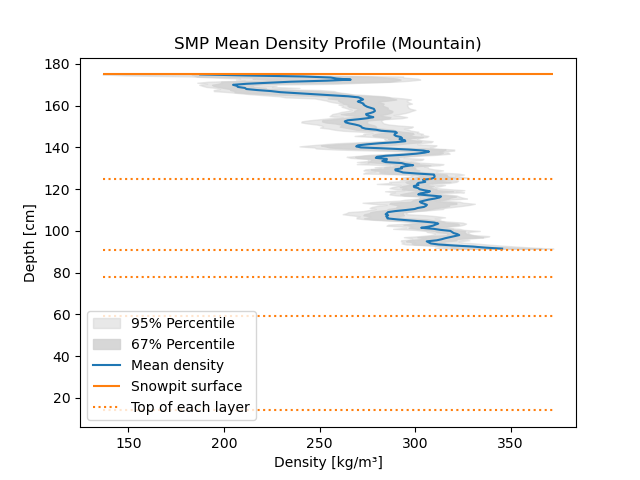
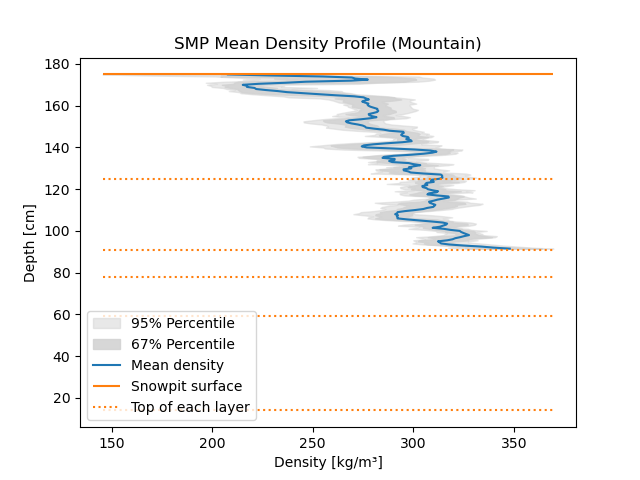
everything in order now

diff --git a/src/main.py b/src/main.py
@@ -1,6 +1,8 @@
 import snowmicropyn
 from snowmicropyn.parameterizations.calonne_richter2020 import CalonneRichter2020
-from snowmicropyn.parameterizations.proksch2015 import Proksch2015
+from snowmicropyn.loewe2012 import calc
+import matplotlib
+matplotlib.use("Agg")
 from matplotlib import pyplot as plt
 import numpy as np
 from pathlib import Path
@@ -11,7 +13,7 @@ from scipy.interpolate import interp1d
 def natural_sort_key(s):
     return [int(text) if text.isdigit() else text.lower() for text in re.split(r'(\d+)', s.stem)]
 
-DATE = "2026-02-25"
+DATE = "2026-02-26"
 if "-25" in DATE:
     SITE = "Valley"
     depth = [78.5, 68.5, 56, 43.5, 26.5, 10]
@@ -34,7 +36,11 @@ lamb=0 # not needed, needs to provided anyway
 f0=0 # not needed, needs to provided anyway
 delta=0 # not needed, needs to provided anyway
 
-WINDOW_SIZE = 5 # in mm
+# parameters for density and ssa computation
+WINDOW_SIZE = 1 # in mm
+OVERLAP = 50 # in percent
+
+BIN_SIZE = 5 # in mm, for statistics
 
 if "-25" in DATE:
     PIT_HEIGHT = 820 # in mm
@@ -51,27 +57,24 @@ for n, file in enumerate(files):
 
     p = snowmicropyn.Profile.load(file)
 
-    # extract the measured properties
+
+    # Extract and cut measured properties, set distance to zero at surface
     distance = p.samples.distance
     force = p.samples.force
-
-    # find the surface, set the marker
     surface = p.detect_surface()
-    # did not bottom out, use the lowest
     bottom = distance.iloc[-1]
-    
-    # cut the force
     snowpit_mask = distance.between(surface, bottom)
+    df = (
+        p.samples.loc[snowpit_mask, ['distance', 'force']]
+        .assign(distance=lambda d: d['distance'] - d['distance'].iloc[0])
+        .reset_index(drop=True)
+    )
 
-    distance = distance[snowpit_mask]
-    force = force[snowpit_mask]
-
-    # set distance to zero at surface of snowpit
-    distance -= distance.iloc[0]
-
-    
-    # calculate length between ruptures
-    LL = distance.diff()
+    # calculate length between ruptures, same as Calonne et al 2020
+    result = calc(df, WINDOW_SIZE, OVERLAP)
+    distance = result['distance']
+    force = result['force_median']
+    LL = result['L2012_L']
 
     # calculate density and SSA
     # in kg/m³
@@ -80,9 +83,9 @@ for n, file in enumerate(files):
     # in m²/kg
     ssa = param.ssa(density=density, F_m=force, LL=LL, lamb=lamb, f0=f0, delta=delta)
 
-    # Bin the data 
-    bin_edges = np.arange(0, distance.max() + WINDOW_SIZE, WINDOW_SIZE)
-    bin_centers = bin_edges[:-1] + WINDOW_SIZE / 2
+
+    bin_edges = np.arange(0, distance.max() + BIN_SIZE, BIN_SIZE)
+    bin_centers = bin_edges[:-1] + BIN_SIZE / 2
     force_binned = []
     density_binned = []
     ssa_binned = []
@@ -103,12 +106,6 @@ for n, file in enumerate(files):
     ssa_binned = np.array(ssa_binned)
 
     binned_distance = bin_centers
-
-    LL = np.full_like(force_binned, WINDOW_SIZE)
-
-
-    print(f"NaN/neg density: {np.any(np.isnan(density)) or np.any(density < 0)}, NaN/neg force: {np.any(np.isnan(force_binned)) or np.any(force_binned < 0)}")
-
 
     # rescale to match other recordings
     binned_height = binned_distance - binned_distance.max()
@@ -191,7 +188,7 @@ else:
 plt.legend()
 plt.title(f"SMP Mean Density Profile ({SITE})")
 plt.savefig(f"smp_density_{SITE}.png")
-plt.show()
+#plt.show()
 
 
 
@@ -215,4 +212,4 @@ else:
 plt.legend()
 plt.title(f"SMP Mean SSA Profile ({SITE})")
 plt.savefig(f"smp_ssa_{SITE}.png")
-plt.show()
+#plt.show()
